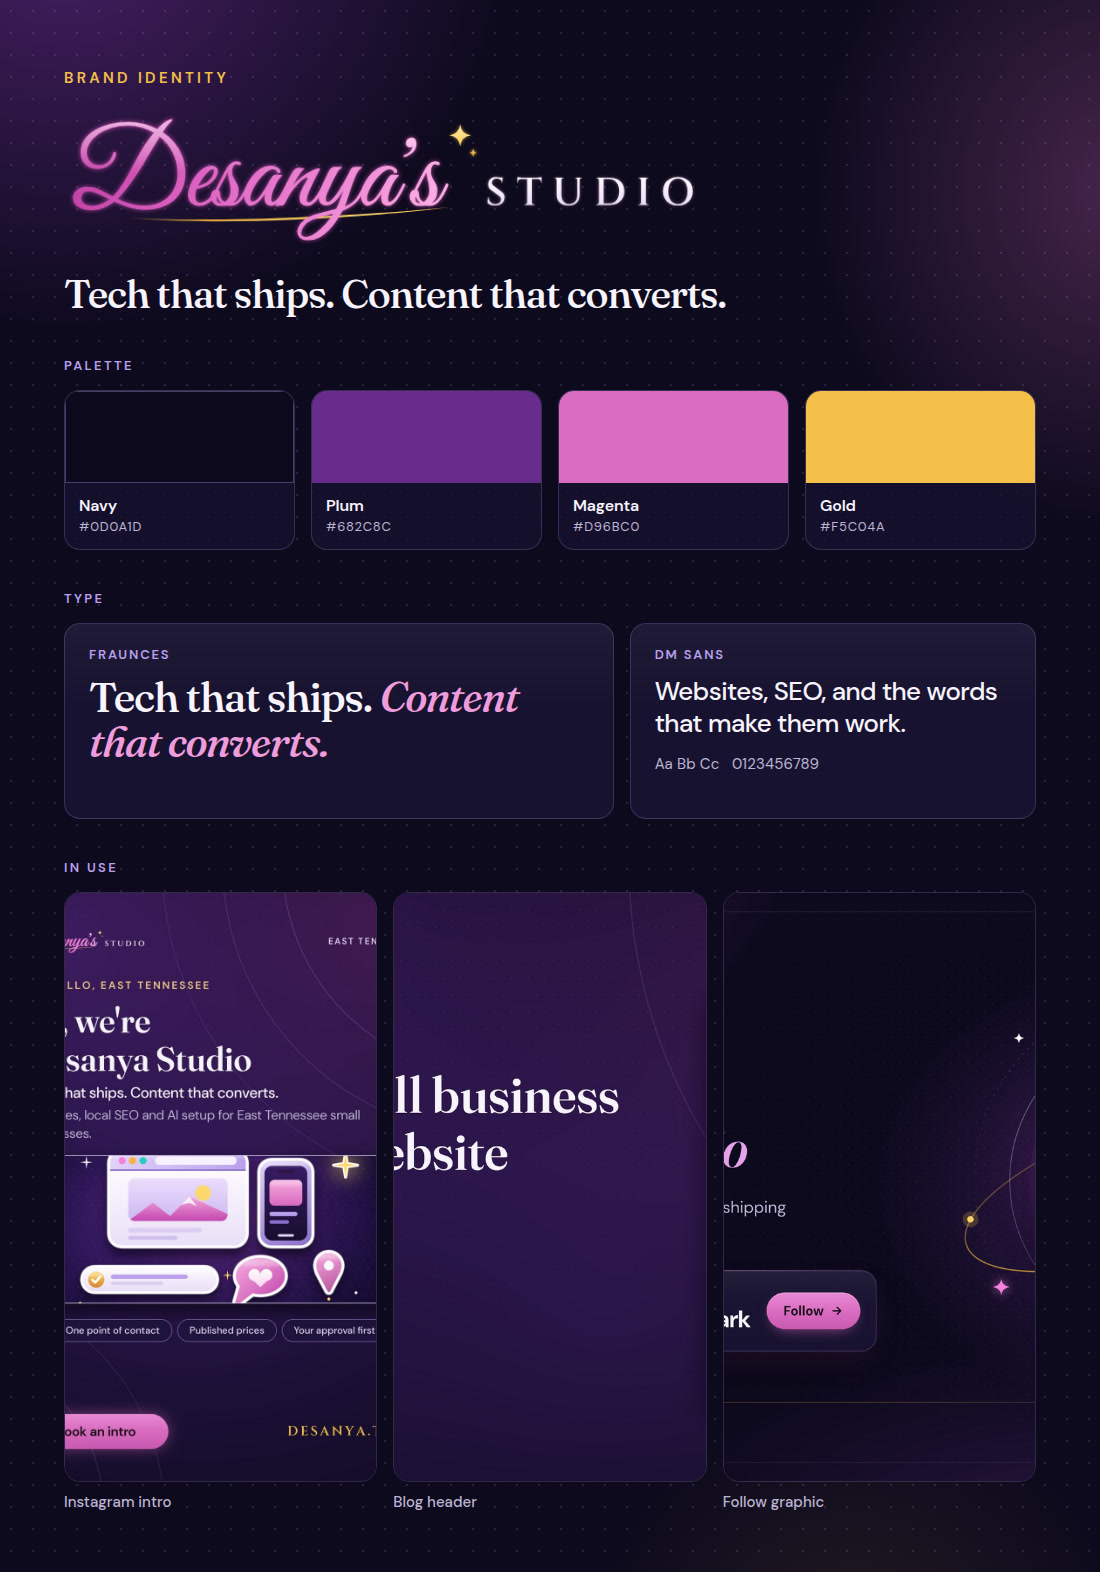
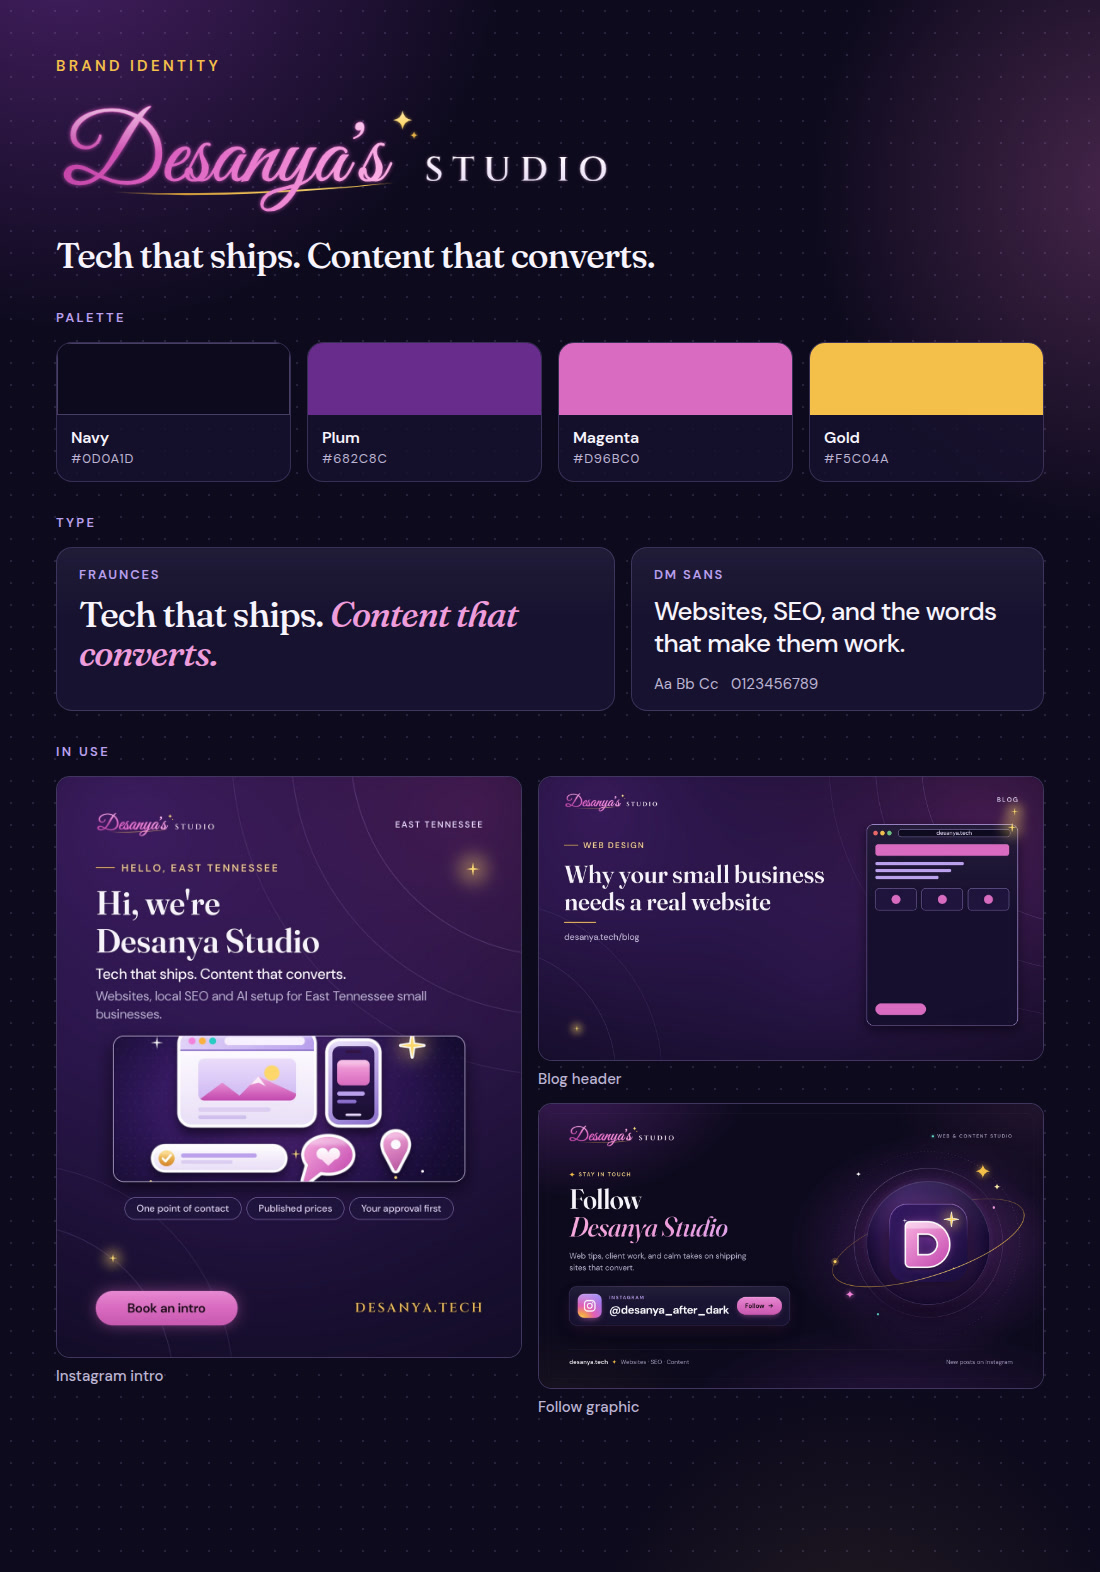
Show each brand-preview graphic whole.
Fit the Instagram intro, blog header, and follow graphic with contain so their text is no longer cropped, and cache-bust the Gallery tile.

diff --git a/gallery.html b/gallery.html
@@ -237,10 +237,10 @@
           </li>
 
           <li class="gallery-item">
-            <a class="gallery-link" href="assets/brand-preview.jpg?v=2" data-lightbox data-lb-set="brand" data-caption="Brand identity — the Desanya Studio web and social kit.">
+            <a class="gallery-link" href="assets/brand-preview.jpg?v=3" data-lightbox data-lb-set="brand" data-caption="Brand identity — the Desanya Studio web and social kit.">
               <picture>
-                <source srcset="assets/brand-preview.webp?v=2" type="image/webp">
-                <img class="frame-top" src="assets/brand-preview.jpg?v=2" alt="Desanya Studio brand identity preview" width="1100" height="1572" loading="lazy">
+                <source srcset="assets/brand-preview.webp?v=3" type="image/webp">
+                <img class="frame-top" src="assets/brand-preview.jpg?v=3" alt="Desanya Studio brand identity preview" width="1100" height="1572" loading="lazy">
               </picture>
               <span class="gallery-meta">
                 <span class="gallery-title">Brand identity</span>
